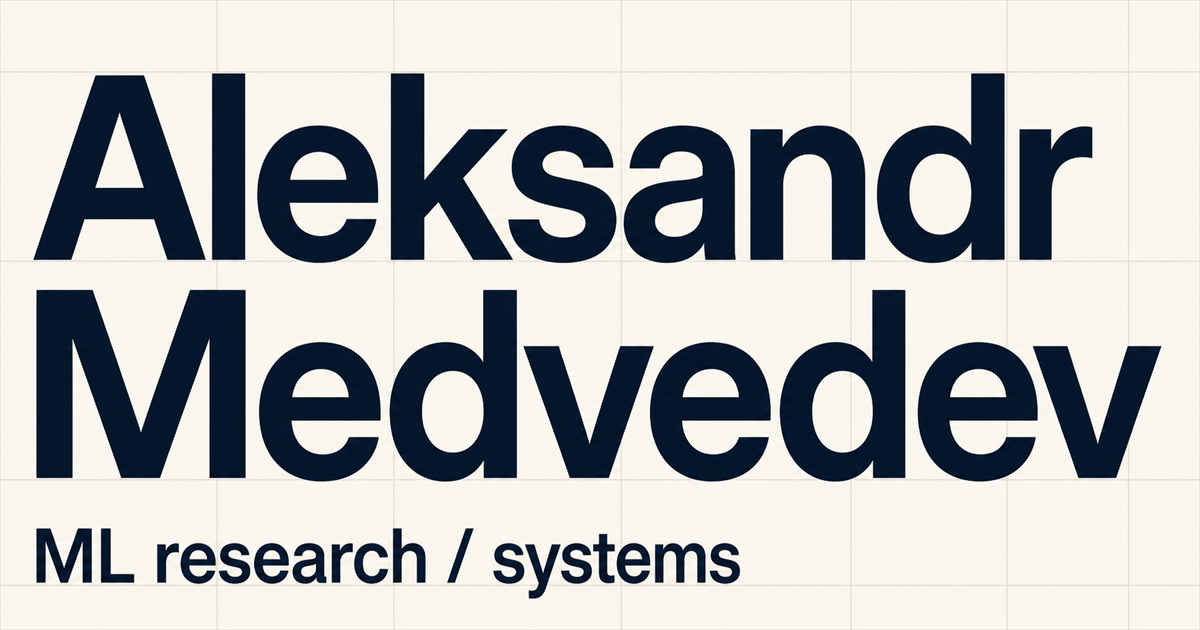
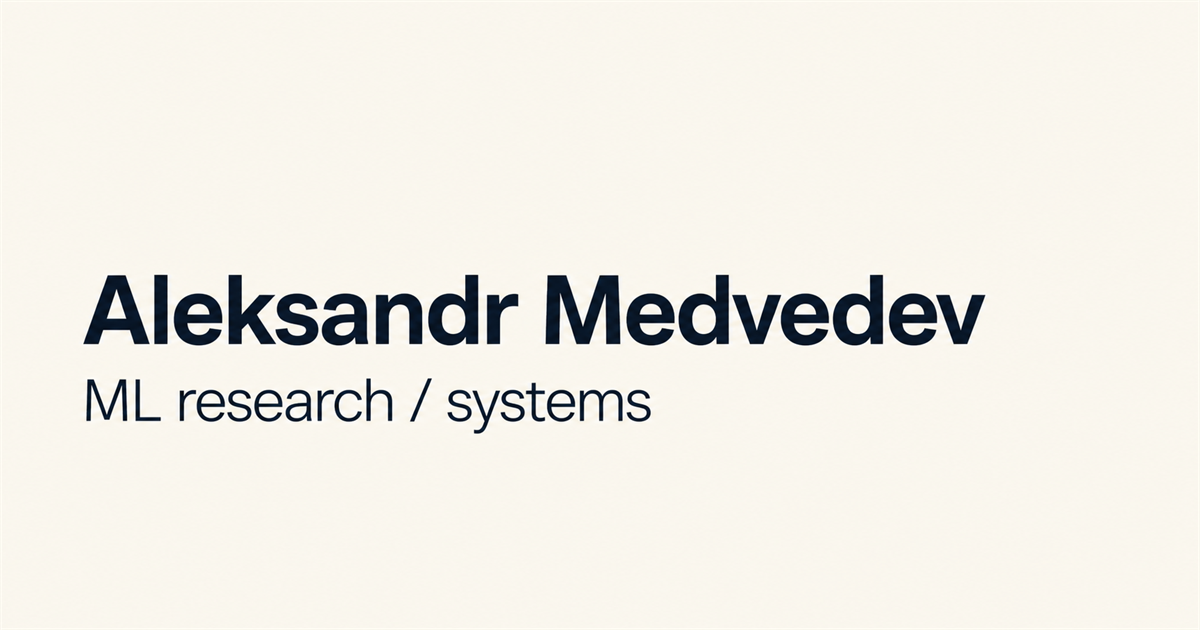
Add concise about and skills section

diff --git a/app/globals.css b/app/globals.css
@@ -41,10 +41,6 @@ a { color: inherit; text-decoration: none; }
   display: grid;
   grid-template-columns: 72px minmax(0, 1fr) 230px;
   min-height: min(790px, calc(100vh - 72px));
-  background-image:
-    linear-gradient(rgba(16, 28, 40, 0.055) 1px, transparent 1px),
-    linear-gradient(90deg, rgba(16, 28, 40, 0.055) 1px, transparent 1px);
-  background-size: 84px 84px;
 }
 
 .rail-label {
@@ -80,8 +76,18 @@ a { color: inherit; text-decoration: none; }
 .hero-index span { border-top: 1px solid var(--ink); line-height: 1.4; padding: 20px; }
 .hero-index span:first-child { background: var(--ink); color: var(--paper); }
 
-.work { margin: 0 auto; max-width: 1600px; padding: 110px clamp(20px, 5vw, 80px) 130px; }
+.about, .work { margin: 0 auto; max-width: 1600px; padding-left: clamp(20px, 5vw, 80px); padding-right: clamp(20px, 5vw, 80px); }
+.about { border-bottom: 1px solid var(--ink); padding-bottom: 110px; padding-top: 110px; }
+.work { padding-bottom: 130px; padding-top: 110px; }
 .section-label { border-bottom: 1px solid var(--ink); display: flex; font-size: 10px; justify-content: space-between; letter-spacing: 0.1em; padding-bottom: 13px; }
+.about-grid { display: grid; gap: clamp(44px, 7vw, 120px); grid-template-columns: minmax(280px, 0.9fr) minmax(380px, 1.1fr); padding-top: 58px; }
+.about-grid > h2 { font-size: clamp(42px, 5.4vw, 82px); font-weight: 600; letter-spacing: -0.065em; line-height: 0.95; margin: 0; max-width: 760px; }
+.about-content { align-self: end; }
+.about-copy { font-size: clamp(19px, 2vw, 30px); letter-spacing: -0.035em; line-height: 1.28; margin: 0 0 58px; max-width: 760px; }
+.skills { border-bottom: 1px solid var(--ink); }
+.skills > div { align-items: baseline; border-top: 1px solid var(--ink); display: grid; gap: 24px; grid-template-columns: 120px 1fr; padding: 17px 0; }
+.skills span { color: var(--muted); font-family: var(--mono); font-size: 9px; letter-spacing: 0.08em; text-transform: uppercase; }
+.skills p { font-size: 14px; line-height: 1.5; margin: 0; }
 .work > h2 { font-size: clamp(42px, 6vw, 92px); font-weight: 600; letter-spacing: -0.065em; line-height: 0.95; margin: 58px 0 76px; }
 .project-list { border-bottom: 1px solid var(--ink); }
 .project { border-top: 1px solid var(--ink); display: grid; gap: 28px; grid-template-columns: 60px 1.05fr 1.2fr 1.35fr; padding: 34px 0 40px; }
@@ -140,6 +146,8 @@ a { color: inherit; text-decoration: none; }
   .hero-index { border-left: 0; border-top: 1px solid var(--ink); flex-direction: row; grid-column: 1 / -1; }
   .hero-index span { border-right: 1px solid var(--ink); border-top: 0; flex: 1; }
   .hero-bottom { grid-template-columns: 1fr; }
+  .about-grid { grid-template-columns: 1fr; }
+  .about-content { max-width: 760px; }
   .project { grid-template-columns: 44px 1fr; }
   .project-summary, .project-detail { grid-column: 2; }
   .footer-meta { grid-template-columns: 1fr; }
@@ -155,6 +163,10 @@ a { color: inherit; text-decoration: none; }
   .hero h1 { font-size: clamp(51px, 16vw, 78px); }
   .hero-index { grid-column: auto; }
   .hero-index span { font-size: 8px; padding: 14px 10px; }
+  .about { padding-bottom: 78px; padding-top: 78px; }
+  .about-grid { padding-top: 44px; }
+  .about-copy { margin-bottom: 44px; }
+  .skills > div { gap: 14px; grid-template-columns: 94px 1fr; }
   .work { padding-bottom: 84px; padding-top: 78px; }
   .work > h2 { margin: 44px 0 54px; }
   .project { gap: 18px; grid-template-columns: 30px 1fr; }

diff --git a/app/page.tsx b/app/page.tsx
@@ -55,6 +55,38 @@ export default function Home() {
         </div>
       </section>
 
+      <section className="about" id="about" aria-labelledby="about-title">
+        <div className="section-label">
+          <span>About</span>
+          <span>Focus / skills</span>
+        </div>
+        <div className="about-grid">
+          <h2 id="about-title">Reliable models, measured systems.</h2>
+          <div className="about-content">
+            <p className="about-copy">
+              I’m a computer science student at Innopolis University focused on
+              building reliable ML systems. I work on model evaluation,
+              reproducible experimentation, and efficient Python/PyTorch
+              inference, with a particular interest in LLM quality and routing.
+            </p>
+            <div className="skills" aria-label="Core skills">
+              <div>
+                <span>Core</span>
+                <p>Python · PyTorch · Transformers</p>
+              </div>
+              <div>
+                <span>ML practice</span>
+                <p>Model evaluation · experiment design · reproducibility</p>
+              </div>
+              <div>
+                <span>Systems</span>
+                <p>FastAPI · Docker · Linux · GitHub Actions</p>
+              </div>
+            </div>
+          </div>
+        </div>
+      </section>
+
       <section className="work" id="work" aria-labelledby="work-title">
         <div className="section-label">
           <span>Selected project</span>
@@ -84,7 +116,7 @@ export default function Home() {
         <p className="footer-label">Contact / availability</p>
         <h2>Seeking ML research, systems, and applied LLM roles.</h2>
         <div className="footer-meta">
-          <p>Python · PyTorch · FastAPI · evaluation · Docker</p>
+          <p>Python · PyTorch · Transformers · FastAPI · Docker · Linux</p>
           <div>
             <a href="mailto:medvedguk@gmail.com">medvedguk@gmail.com ↗</a>
             <a href="https://github.com/MedvAx-AI" target="_blank" rel="noreferrer">
